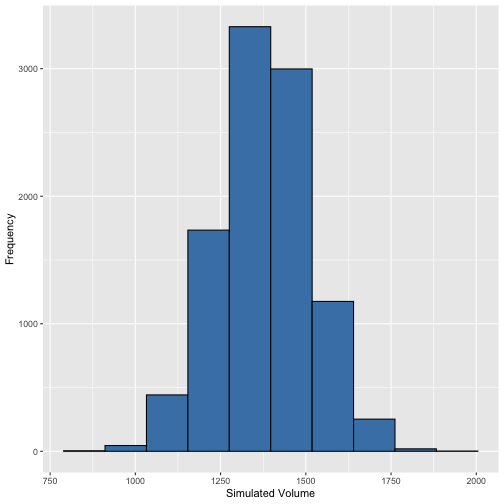
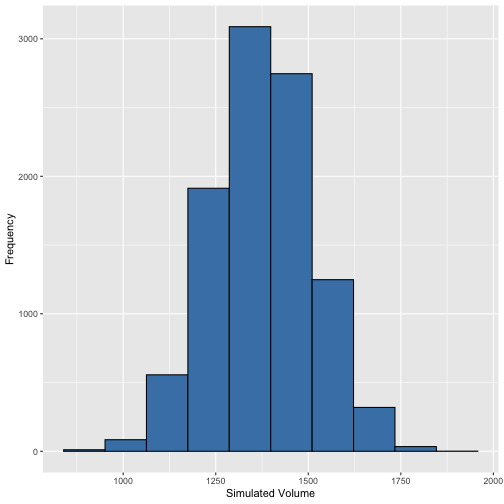
update simulation slides

diff --git a/week01/Lab-02c-simulation.html b/week01/Lab-02c-simulation.html
@@ -157,6 +157,7 @@ Now let's contrast the original data versus the simulated data!
 
 &lt;img src="Lab-02c-simulation_files/figure-html/unnamed-chunk-13-1.png" style="display: block; margin: auto;" /&gt;
 
+
 ---
 ### Calculating Areas Under a Theoretical Gaussian Curve:
 
@@ -185,6 +186,32 @@ pnorm(1600,vol_mean, vol_sd)-pnorm(1300,vol_mean, vol_sd)
 ## [1] 0.6669265
 ```
 
+
+
+---
+
+###  Distribution of Mean Values from 1000 Simulations
+
+
+```r
+vol_sim &lt;- replicate(5000, mean(rnorm(1000, vol_mean, vol_sd)))
+vol_means &lt;- tibble(mean_value = vol_sim)
+
+
+ggplot(data = vol_means, aes(x = mean_value)) +
+  geom_histogram(bins = 30, 
+                 fill = "steelblue", color = "black") +
+  xlab("Mean Value") +
+  ylab("Frequency")
+```
+
+
+**Central Limit Theorem**: The distribution of sample means tends to follow a normal distribution, regardless of the distribution of the individual values, as long as the sample size is sufficiently large. In this case, the mean values are calculated from a large number of individual values (1,000 in each simulation), leading to a normal distribution of the means.
+---
+
+&lt;img src="Lab-02c-simulation_files/figure-html/unnamed-chunk-17-1.png" style="display: block; margin: auto;" /&gt;
+
+
 ---
 ### Simulating From the Uniform Distribution:
 
@@ -192,7 +219,7 @@ pnorm(1600,vol_mean, vol_sd)-pnorm(1300,vol_mean, vol_sd)
 
 
 ```r
-sim_unif &lt;- tibble(sim_unif = runif(100000, 0, 10))
+sim_unif &lt;- tibble(sim_unif = runif(10000, 0, 10))
 
 ggplot(data = sim_unif, aes(x = sim_unif)) +
   geom_histogram(breaks = seq(0, 10, by = 1),
@@ -203,7 +230,7 @@ ggplot(data = sim_unif, aes(x = sim_unif)) +
 
 ---
 
-&lt;img src="Lab-02c-simulation_files/figure-html/unnamed-chunk-17-1.png" style="display: block; margin: auto;" /&gt;
+&lt;img src="Lab-02c-simulation_files/figure-html/unnamed-chunk-19-1.png" style="display: block; margin: auto;" /&gt;
 
 
 ---
@@ -225,11 +252,10 @@ ggplot(data = bern_table, aes(x = as.factor(bern_random), y = Freq)) +
 
 The code **rbinom(1000, 1, 0.5)** generates a vector of 1000 random numbers from a binomial distribution with 1 trial and a success probability of 0.5. In this case, each random number will be either 0 or 1, representing the outcome of a single Bernoulli trial.
 
-The **stat = "identity"** argument indicates that the heights of the bars should be taken directly from the Freq variable.
 ---
 
 
-&lt;img src="Lab-02c-simulation_files/figure-html/unnamed-chunk-19-1.png" style="display: block; margin: auto;" /&gt;
+&lt;img src="Lab-02c-simulation_files/figure-html/unnamed-chunk-21-1.png" style="display: block; margin: auto;" /&gt;
 
 ---
 ### Bernoulli and Binomial Distributions:
@@ -252,7 +278,7 @@ ggplot(data = bern_table, aes(x = as.factor(binom_random ), y = Freq)) +
 The resulting **binom_random** object will contain 1000 random numbers, each representing the number of successful trials out of 5 for a given binomial distribution.
 ---
 
-&lt;img src="Lab-02c-simulation_files/figure-html/unnamed-chunk-21-1.png" style="display: block; margin: auto;" /&gt;
+&lt;img src="Lab-02c-simulation_files/figure-html/unnamed-chunk-23-1.png" style="display: block; margin: auto;" /&gt;
 
     </textarea>
 <style data-target="print-only">@media screen {.remark-slide-container{display:block;}.remark-slide-scaler{box-shadow:none;}}</style>
